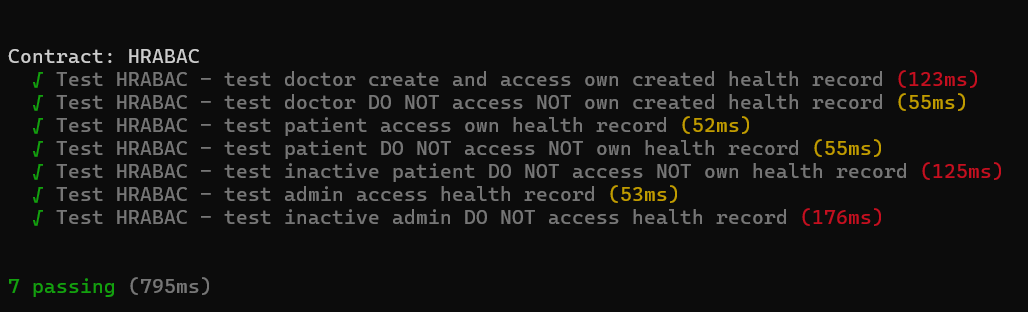
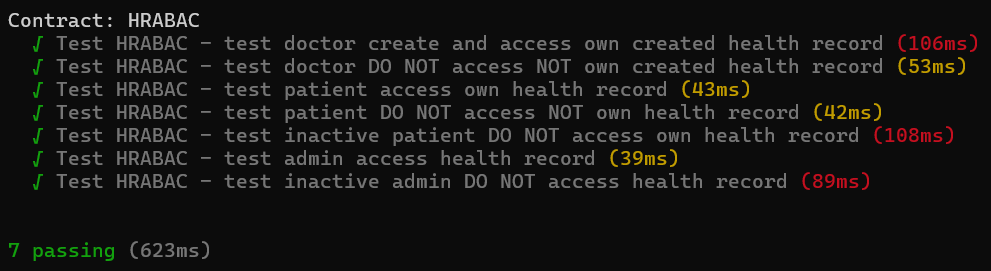
Change image and text

Changed region(s): [[0.0, 0.0295, 0.999, 0.738], [0.0, 0.8856, 0.2119, 0.9742]]

diff --git a/test/HRABAC.test.js b/test/HRABAC.test.js
@@ -69,7 +69,7 @@ it("Test HRABAC - test doctor DO NOT access NOT own created health record", asyn
         expect(canOtherPatient).to.be.false;
     });
 
-  it('Test HRABAC - test inactive patient DO NOT access NOT own health record', async () => {
+  it('Test HRABAC - test inactive patient DO NOT access own health record', async () => {
 
         const rolePatient = await instance.assignRole.sendTransaction(patientAddress,"Patient", false, true, {from: instanceAddress});
         const checkPatient = await instance.checkIsActive.call(patientAddress);
